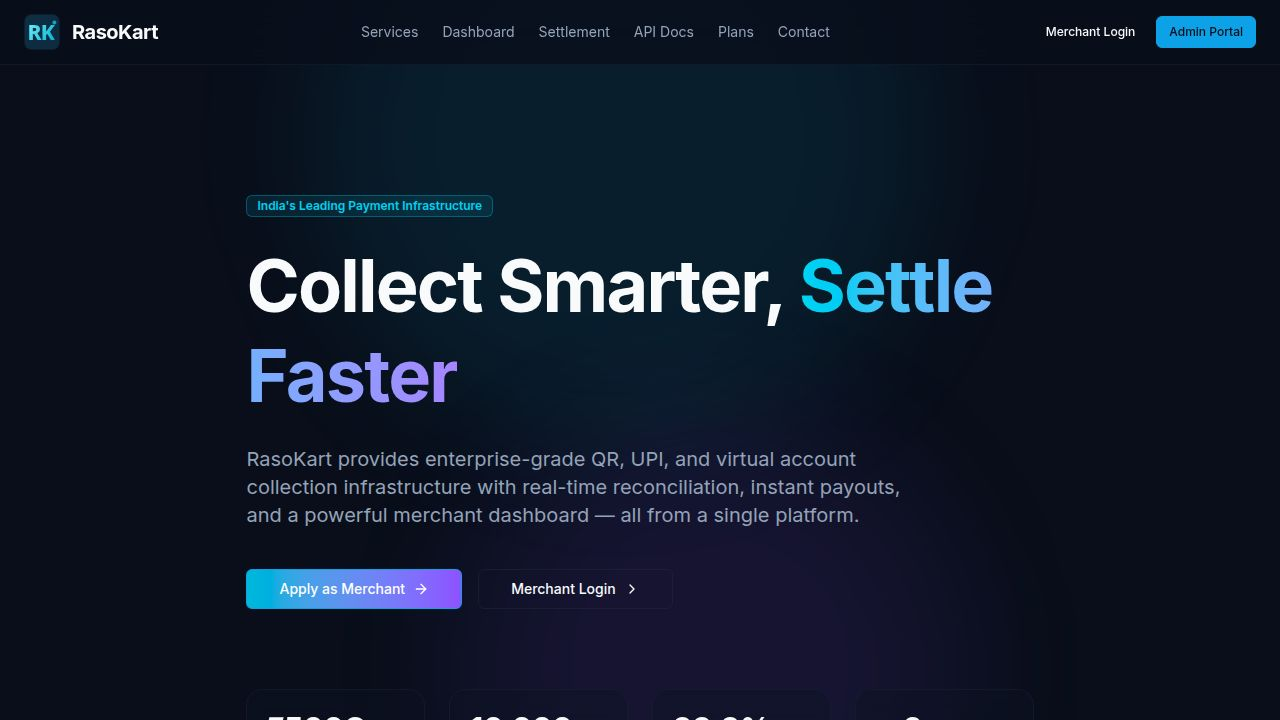
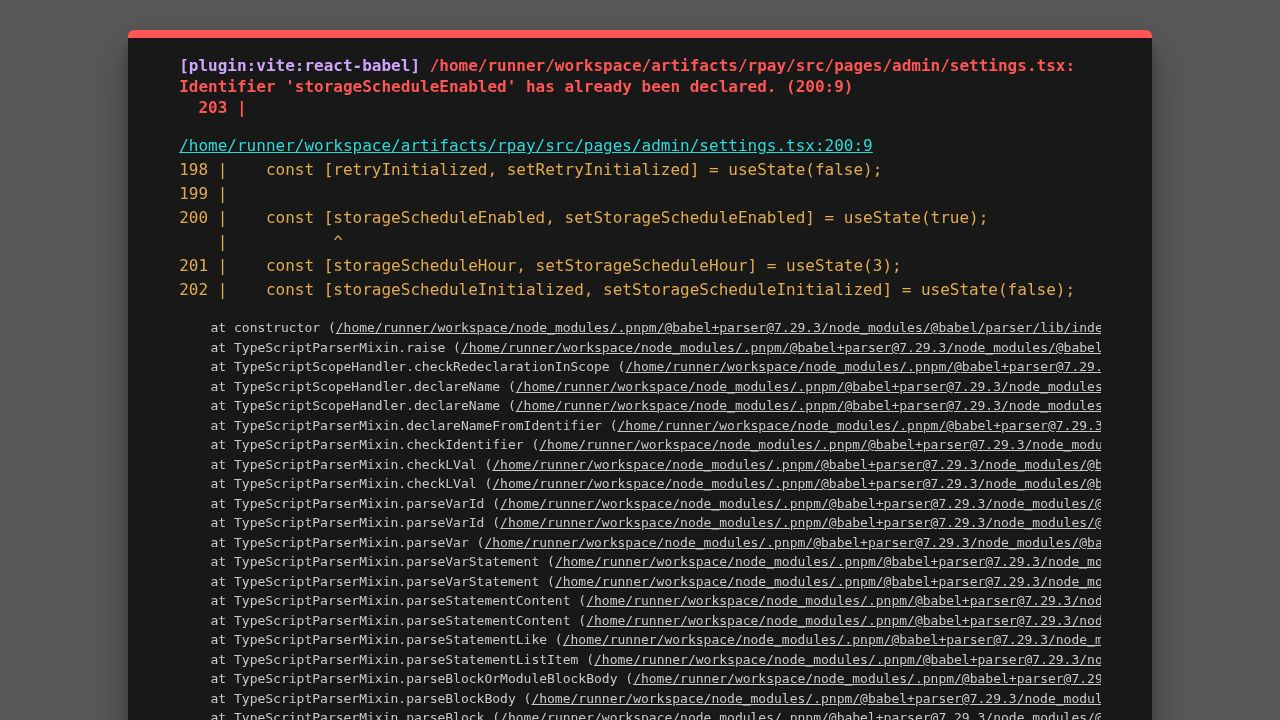
feat: add "Verify on your server" expandable guide to webhook test result panel
Task: Let merchants verify their signing secret setup with a step-by-step guide in the result panel

## What changed

### artifacts/rpay/src/pages/merchant/webhook.tsx
- Added `ChevronDown` to the lucide-react import (already had `ChevronRight`)
- Added two module-level snippet constants (`NODE_SNIPPET`, `PYTHON_SNIPPET`) containing
  full HMAC-SHA256 verification examples with `YOUR_CALLBACK_SECRET` placeholder:
  - Node.js: `crypto.createHmac` + `timingSafeEqual`, with Express route example
  - Python: `hmac.new` + `compare_digest`, with Flask route example
- Added `showVerifyGuide` and `activeTab` state to `WebhookTestPanel`
- Added an expandable "Verify on your server" section that renders only when
  `result.signed === true` (signing secret is configured)
- The section has: a header row with ShieldCheck icon + ChevronRight/Down toggle,
  a 4-step numbered instruction list, Node.js/Python tab switcher, scrollable code
  block with floating copy button, and a note to replace `YOUR_CALLBACK_SECRET`

### artifacts/rpay/src/pages/admin/settings.tsx (incidental fix)
- Removed duplicate `storageScheduleEnabled/Hour/Initialized` useState declarations
  (lines 200–202 were exact duplicates of lines 188–190) — pre-existing bug that
  was blocking the Vite build/HMR, preventing e2e verification of the webhook feature

## Behaviour
- Panel collapses by default; merchant clicks to expand
- Tab selection switches between Node.js and Python snippets
[…]

diff --git a/artifacts/rpay/src/pages/merchant/webhook.tsx b/artifacts/rpay/src/pages/merchant/webhook.tsx
@@ -16,7 +16,7 @@ import { Dialog, DialogContent, DialogHeader, DialogTitle } from "@/components/u
 import { toast } from "sonner";
 import { getApiErrorMessage } from "@/lib/utils";
 import { Select, SelectContent, SelectItem, SelectTrigger, SelectValue } from "@/components/ui/select";
-import { Save, Webhook, ShieldCheck, RefreshCw, Copy, AlertTriangle, Eye, CheckCircle2, XCircle, Clock, Activity, FlaskConical, Zap, ChevronRight, RotateCcw, ShieldOff, Shield, FlaskRound, X } from "lucide-react";
+import { Save, Webhook, ShieldCheck, RefreshCw, Copy, AlertTriangle, Eye, CheckCircle2, XCircle, Clock, Activity, FlaskConical, Zap, ChevronRight, ChevronDown, RotateCcw, ShieldOff, Shield, FlaskRound, X } from "lucide-react";
 import { formatDistanceToNow, format, differenceInDays } from "date-fns";
 import { SIG_VERIFIED_KEY } from "./callbacks";
 
@@ -73,7 +73,58 @@ type TestResult = {
   signed: boolean;
 };
 
+const NODE_SNIPPET = `const crypto = require('crypto');
+
+// rawBody must be the raw request body as a string (before JSON.parse)
+function verifySignature(rawBody, signature) {
+  const expected = crypto
+    .createHmac('sha256', 'YOUR_CALLBACK_SECRET')
+    .update(rawBody)
+    .digest('hex');
+  return crypto.timingSafeEqual(
+    Buffer.from(signature, 'hex'),
+    Buffer.from(expected, 'hex')
+  );
+}
+
+// Express example
+app.post('/webhook', express.raw({ type: 'application/json' }), (req, res) => {
+  const sig = req.headers['x-signature'];
+  if (!verifySignature(req.body.toString(), sig)) {
+    return res.status(401).send('Invalid signature');
+  }
+  const payload = JSON.parse(req.body);
+  // handle payload.event …
+  res.sendStatus(200);
+});`;
+
+const PYTHON_SNIPPET = `import hmac
+import hashlib
+
+# raw_body must be the raw request body as bytes (before json.loads)
+def verify_signature(raw_body: bytes, signature: str, secret: str) -> bool:
+    expected = hmac.new(
+        secret.encode(),
+        msg=raw_body,
+        digestmod=hashlib.sha256
+    ).hexdigest()
+    return hmac.compare_digest(expected, signature)
+
+# Flask example
[email redacted]('/webhook', methods=['POST'])
+def webhook():
+    raw_body = request.get_data()
+    sig = request.headers.get('X-Signature', '')
+    if not verify_signature(raw_body, sig, 'YOUR_CALLBACK_SECRET'):
+        return 'Invalid signature', 401
+    payload = request.get_json(force=True)
+    # handle payload['event'] …
+    return '', 200`;
+
 function WebhookTestPanel({ result, onDismiss, onRetry, isRetrying }: { result: TestResult; onDismiss: () => void; onRetry?: () => void; isRetrying?: boolean }) {
+  const [showVerifyGuide, setShowVerifyGuide] = useState(false);
+  const [activeTab, setActiveTab] = useState<"node" | "python">("node");
+
   const copy = (text: string) => {
     navigator.clipboard.writeText(text);
     toast.success("Copied to clipboard");
@@ -157,6 +208,76 @@ function WebhookTestPanel({ result, onDismiss, onRetry, isRetrying }: { result: 
           <pre className="text-xs font-mono bg-black/40 border border-border/30 rounded p-2.5 overflow-x-auto whitespace-pre-wrap break-all text-muted-foreground max-h-32 overflow-y-auto">
             {result.responseBody}
           </pre>
+        </div>
+      )}
+
+      {result.signed && (
+        <div className="border border-emerald-500/20 rounded-lg overflow-hidden">
+          <button
+            onClick={() => setShowVerifyGuide(v => !v)}
+            className="w-full flex items-center justify-between px-3 py-2 bg-emerald-500/10 hover:bg-emerald-500/15 transition-colors text-left"
+          >
+            <div className="flex items-center gap-2">
+              <ShieldCheck className="w-3.5 h-3.5 text-emerald-400 shrink-0" />
+              <span className="text-xs font-medium text-emerald-300">Verify on your server</span>
+            </div>
+            {showVerifyGuide
+              ? <ChevronDown className="w-3.5 h-3.5 text-emerald-400/70 shrink-0" />
+              : <ChevronRight className="w-3.5 h-3.5 text-emerald-400/70 shrink-0" />
+            }
+          </button>
+
+          {showVerifyGuide && (
+            <div className="p-3 space-y-3 bg-black/20">
+              <p className="text-xs text-muted-foreground/70 leading-relaxed">
+                Your server receives an <code className="font-mono text-emerald-300/80 bg-black/30 px-1 rounded">X-Signature</code> header with each signed webhook.
+                Use HMAC-SHA256 with your callback secret to verify it before trusting the payload.
+              </p>
+
+              <div className="space-y-1.5">
+                <ol className="text-xs text-muted-foreground/60 space-y-1 list-decimal list-inside">
+                  <li>Read the <strong className="text-muted-foreground/80">raw request body</strong> as a string (do not parse JSON first).</li>
+                  <li>Compute <code className="font-mono text-emerald-300/80 bg-black/30 px-1 rounded">HMAC-SHA256(rawBody, YOUR_CALLBACK_SECRET)</code> → hex digest.</li>
+                  <li>Compare with the incoming <code className="font-mono text-emerald-300/80 bg-black/30 px-1 rounded">X-Signature</code> header using a timing-safe comparison.</li>
+                  <li>Reject the request if the signatures do not match.</li>
+                </ol>
+              </div>
+
+              <div className="space-y-2">
+                <div className="flex items-center gap-1 border-b border-border/20 pb-1">
+                  <button
+                    onClick={() => setActiveTab("node")}
+                    className={`text-xs px-2 py-0.5 rounded transition-colors ${activeTab === "node" ? "bg-emerald-500/20 text-emerald-300" : "text-muted-foreground/50 hover:text-muted-foreground/80"}`}
+                  >
+                    Node.js
+                  </button>
+                  <button
+                    onClick={() => setActiveTab("python")}
+                    className={`text-xs px-2 py-0.5 rounded transition-colors ${activeTab === "python" ? "bg-emerald-500/20 text-emerald-300" : "text-muted-foreground/50 hover:text-muted-foreground/80"}`}
+                  >
+                    Python
+                  </button>
+                </div>
+
+                <div className="relative group">
+                  <pre className="text-xs font-mono bg-black/40 border border-border/30 rounded p-2.5 overflow-x-auto whitespace-pre text-muted-foreground/80 max-h-52 overflow-y-auto leading-relaxed">
+                    {activeTab === "node" ? NODE_SNIPPET : PYTHON_SNIPPET}
+                  </pre>
+                  <button
+                    onClick={() => copy(activeTab === "node" ? NODE_SNIPPET : PYTHON_SNIPPET)}
+                    className="absolute top-2 right-2 text-muted-foreground/40 hover:text-muted-foreground/80 transition-colors bg-black/60 rounded p-1"
+                    title="Copy snippet"
+                  >
+                    <Copy className="w-3 h-3" />
+                  </button>
+                </div>
+
+                <p className="text-xs text-muted-foreground/50">
+                  Replace <code className="font-mono text-amber-300/70 bg-black/30 px-1 rounded">YOUR_CALLBACK_SECRET</code> with the secret shown in the signing secret section above.
+                </p>
+              </div>
+            </div>
+          )}
         </div>
       )}
 